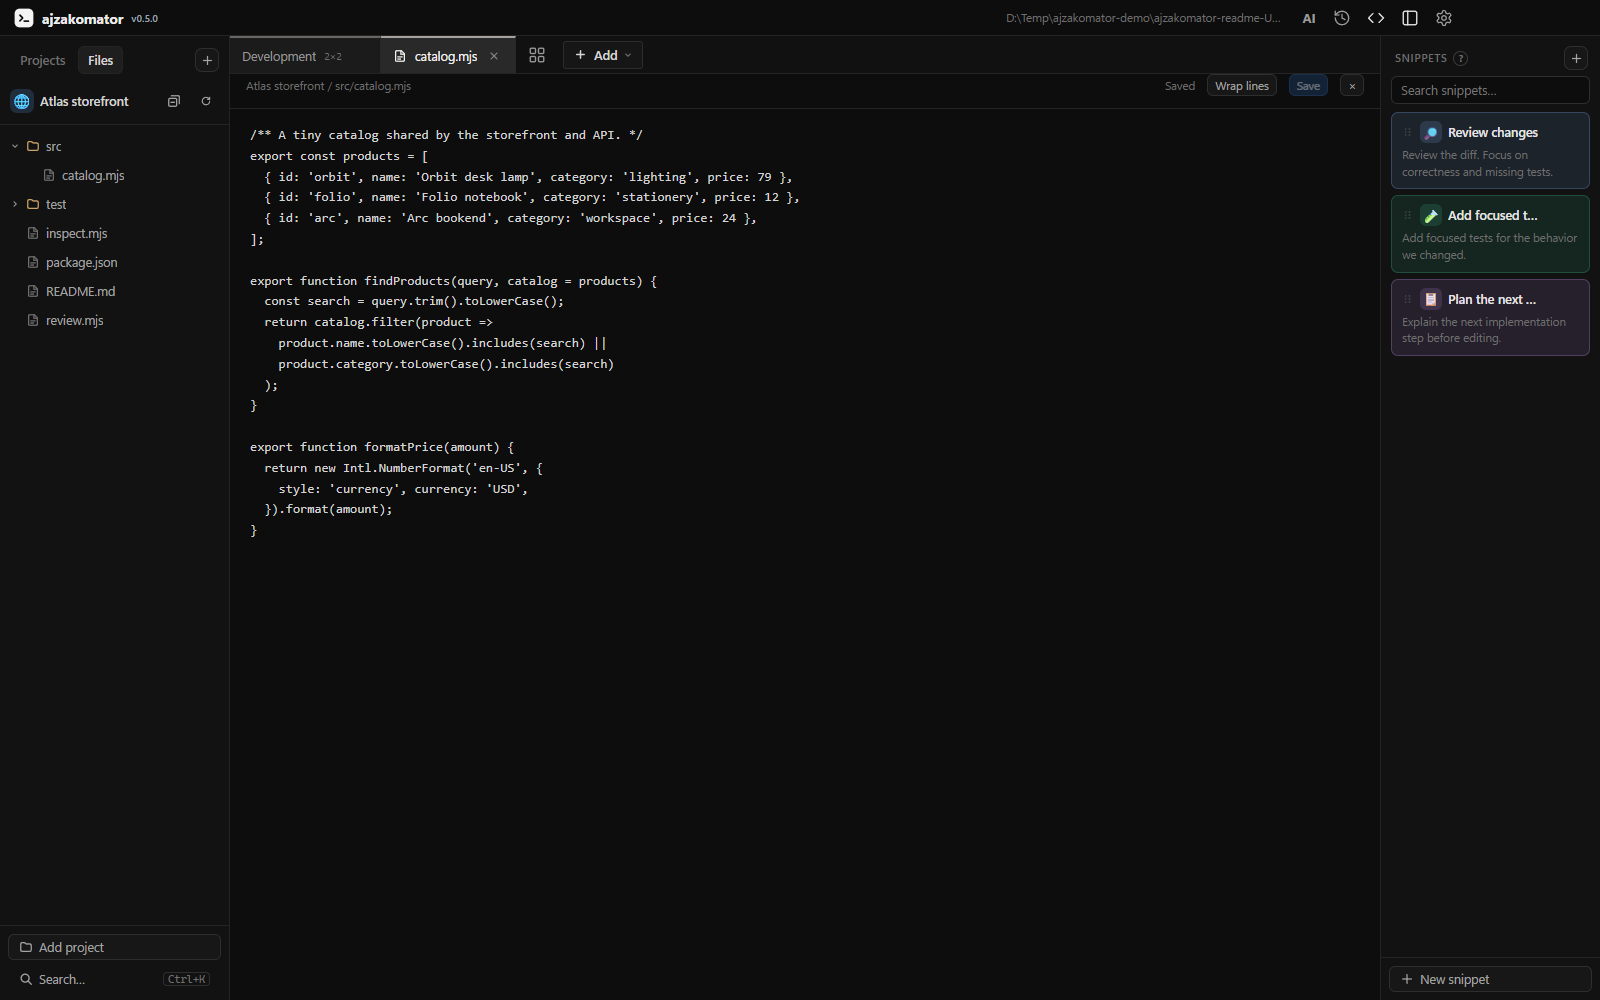
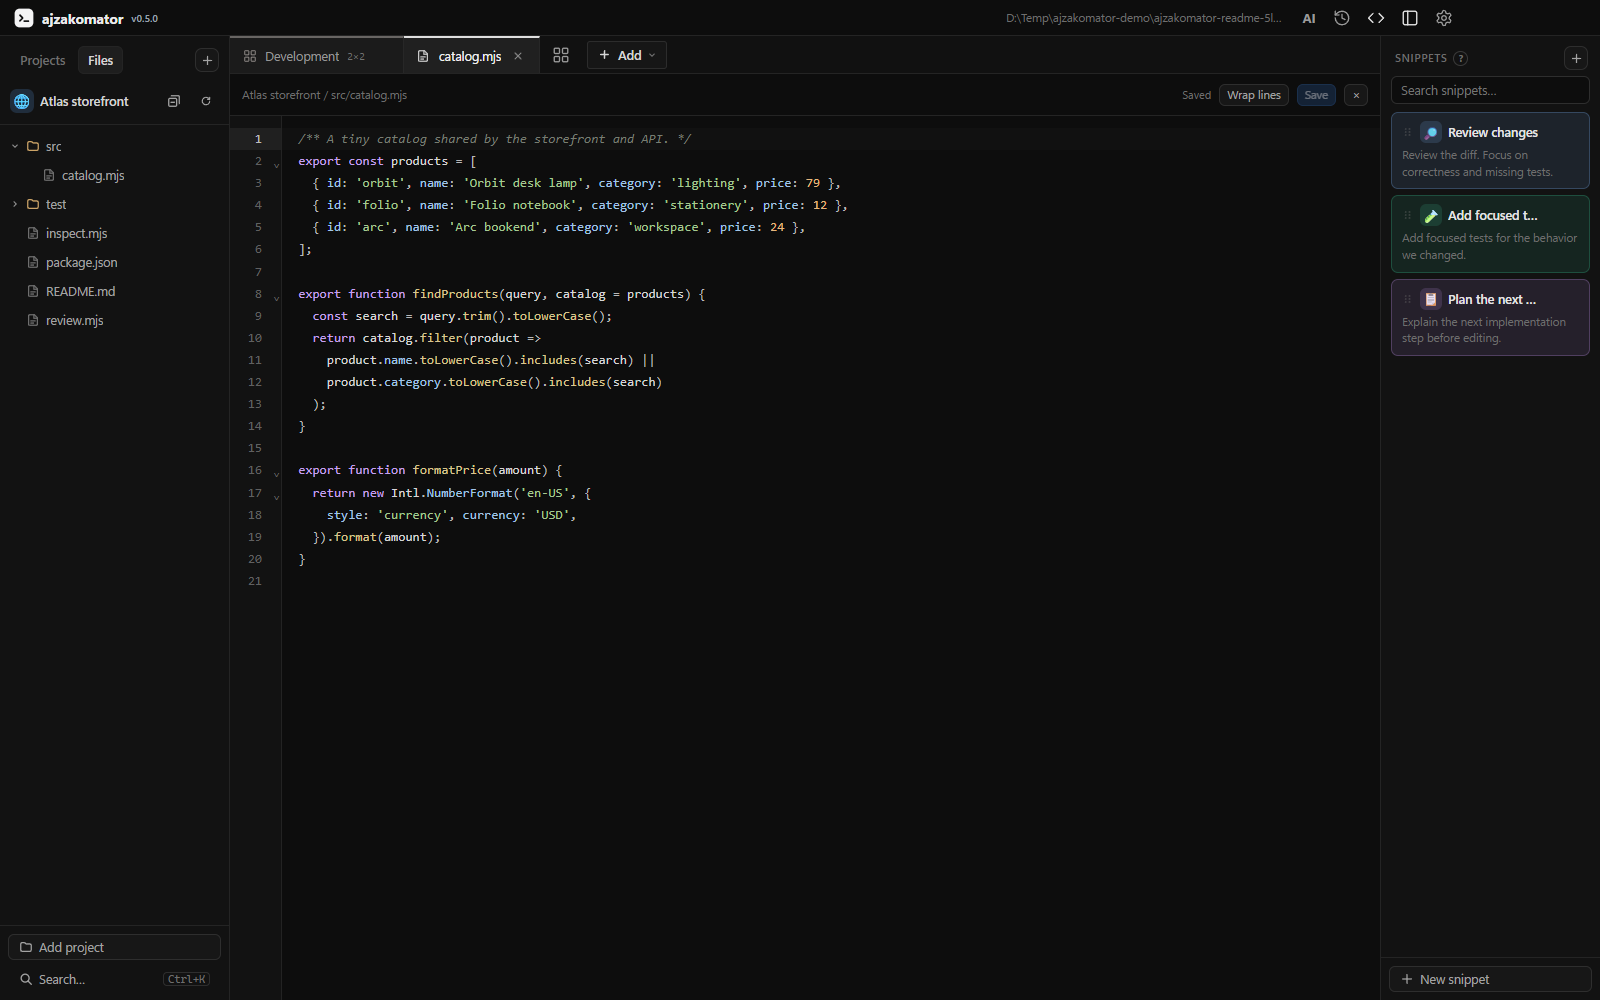
docs: show the syntax editor in current English screenshots

diff --git a/README.pl.md b/README.pl.md
@@ -24,7 +24,7 @@ Przełączaj projekty, gdy terminale nadal pracują w tle.
 - **Nic nie ginie**: po restarcie aplikacji rozmowy same się wznawiają, zamknięte gridy trafiają do Historii, a lista starych czatów Claude i Codex jest pod ręką
 - **Snippety** z ikonami i kolorami: klik wkleja do aktywnej komórki, Shift+klik do całej siatki, można też przeciągnąć na komórkę
 - **Układ paneli**: przeciągnij krawędź projektów lub snippetów, aby zmienić szerokość; podwójny klik przywraca domyślną. Szerokości i kolejność projektów oraz snippetów są zapamiętywane
-- **Pliki i edytor kodu**: zakładka „Pliki” pokazuje drzewo projektu; kod możesz edytować w aplikacji lub otworzyć w edytorze zewnętrznym. Dostępne są też skróty do Eksploratora Windows lub Findera
+- **Pliki i edytor kodu**: zakładka „Pliki” pokazuje drzewo projektu; edytor ma numery wierszy, kolorowanie składni, zwijanie kodu, wyszukiwanie i cofanie zmian. Kod możesz też otworzyć w edytorze zewnętrznym
 - **Menu pod prawym przyciskiem**: na projekcie, gridzie, snippecie, pliku i pustej przestrzeni paneli. W edytorze projektu kliknięcie avatara wybiera własną ikonę, a „Anuluj” odrzuca zmiany
 - **Paleta `Ctrl+K` (`Cmd+K` na Macu)** przeszukuje projekty, gridy, snippety, presety, historię i akcje
 - **Terminale systemowe**: Windows korzysta z PowerShella i ConPTY, macOS z zsh/bash i PTY. Na Macu działają `Cmd+C` / `Cmd+V`, a powłoka logowania wczytuje `PATH` agentów

diff --git a/docs/releases/0.5.0.md b/docs/releases/0.5.0.md
@@ -3,7 +3,9 @@
 ## Workspace
 
 - Grid and file tabs now sit below the navbar with a rectangular shape. Rename and color grid tabs from their context menu.
+- Grid tabs use a grid icon, file tabs use a document icon, and the editor toolbar has aligned controls.
 - Open project text files in editable workspace tabs. Save with Ctrl+S / Cmd+S; modified files offer save, discard or cancel on close. Drafts survive a reload, and saving detects external disk changes.
+- The CodeMirror editor adds line numbers, syntax highlighting for common code/config formats, folding, bracket matching, search, indentation and undo/redo.
 - Removed project drag grips while keeping drag-to-reorder. Removed the file explorer footer.
 - Sidebar resizing uses a neutral highlight and reliably clears after release, capture loss or window blur.
 - The app name shows the version, animates on click and offers Check for updates on right-click.

diff --git a/README.md b/README.md
@@ -64,6 +64,7 @@ background, tells you which one needs you, and brings any grid or conversation b
 **Edit without leaving the workspace**
 
 - Open text files from **Files** into editor tabs and switch back to the running grid
+- Line numbers, syntax colors for common code/config formats, bracket matching, code folding, search and undo/redo
 - Save with `Ctrl+S` / `Cmd+S`, insert indentation with Tab and toggle line wrapping
 - Unsaved changes are marked; closing a modified file offers save, discard or cancel
 - Drafts survive a renderer reload; a file changed on disk is checked before saving
